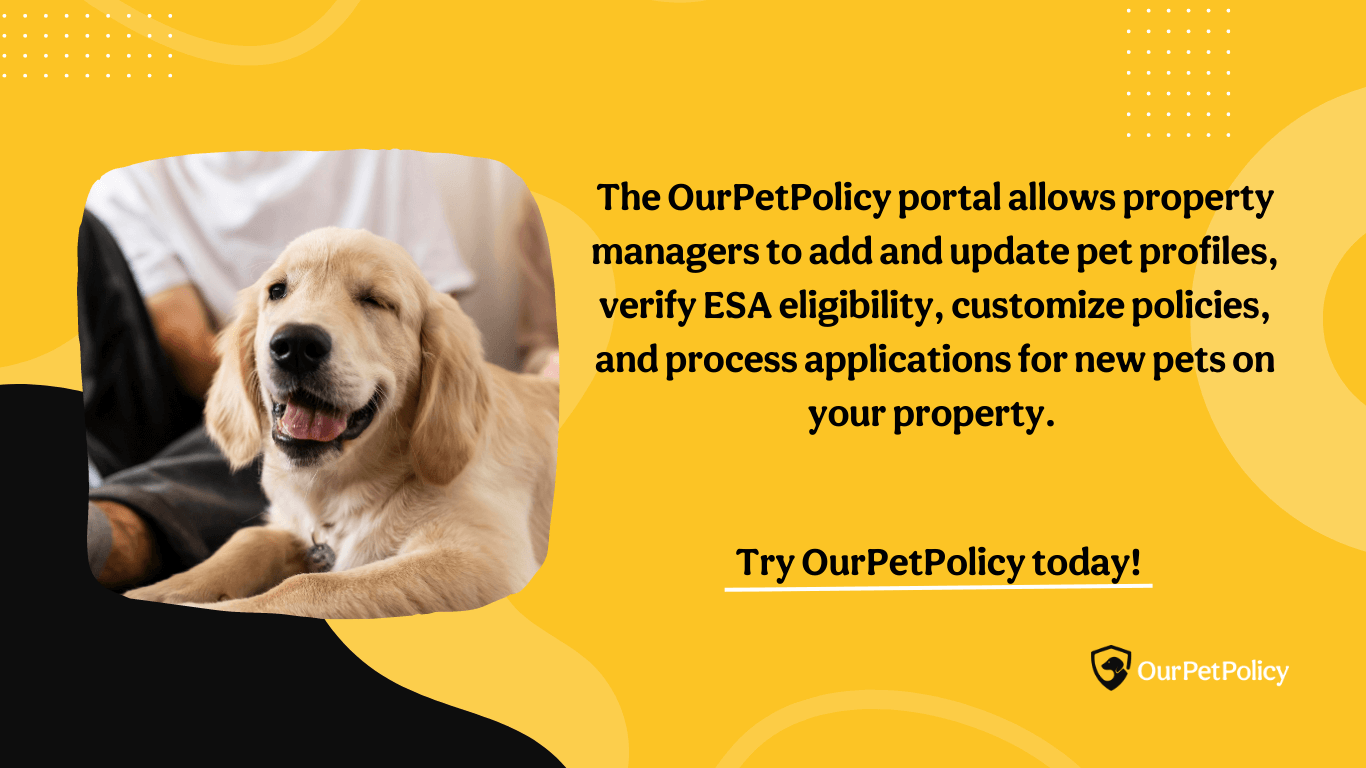
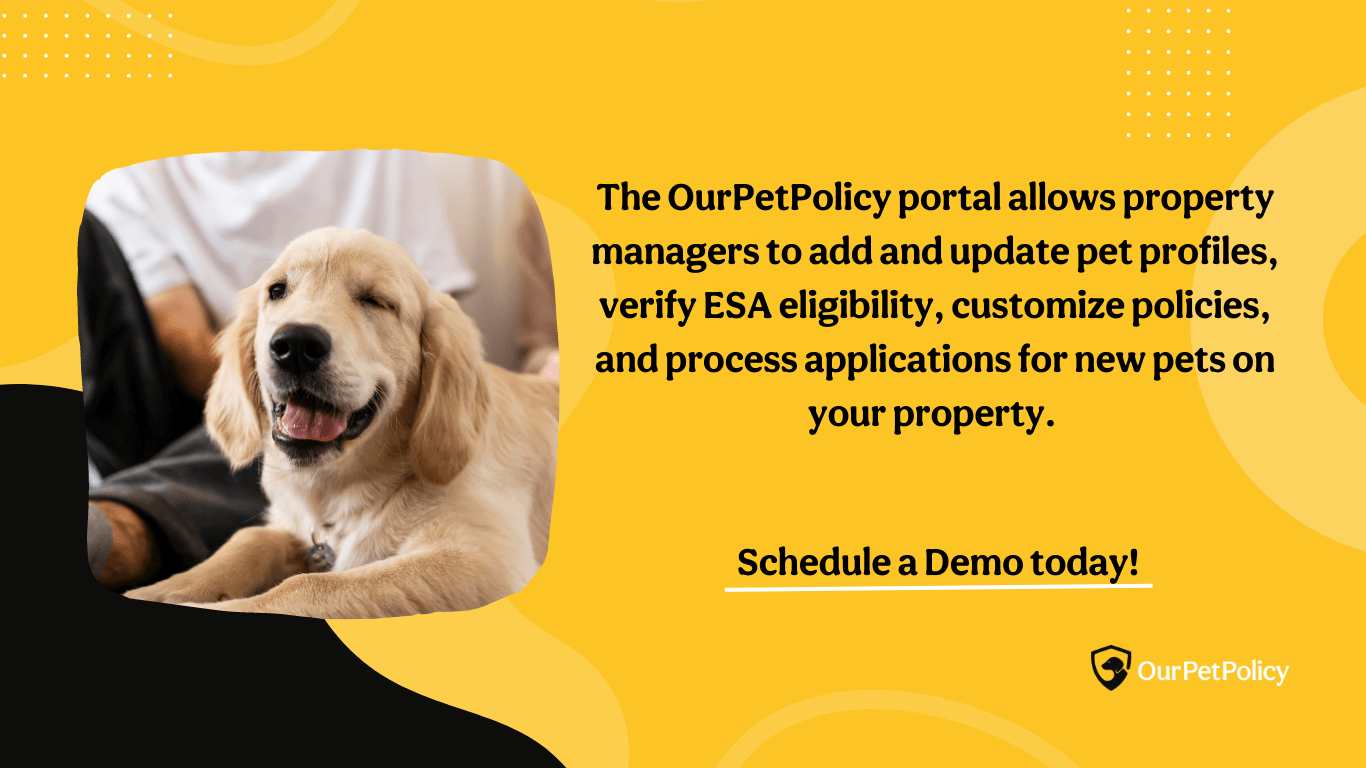
Update Blog “resources-top-pet-management-software-features-for-properties”

Changed region(s): [[0.5227, 0.7188, 0.8302, 0.75]]

diff --git a/src/markdown/blog/resources-top-pet-management-software-features-for-properties.md b/src/markdown/blog/resources-top-pet-management-software-features-for-properties.md
@@ -75,4 +75,4 @@ Managing pets on properties can be a daunting task. However, the use of pet mana
 
 OurPetPolicy is an example of a comprehensive pet management solution that provides all of these tools, making it the ultimate pet management solution for landlords and property managers. If you’re looking to optimize your on-property pet program, [try OurPetPolicy today](https://landlord.ourpetpolicy.com/sign-up).
 
-[![Demo](/assets/property_owners_choice_ourpetpolicy_software.png "Demo")](https://landlordtech.com/request-demo/)
+[![Demo](/assets/property_owners_choice_ourpetpolicy.png "Demo")](https://landlordtech.com/request-demo/)
